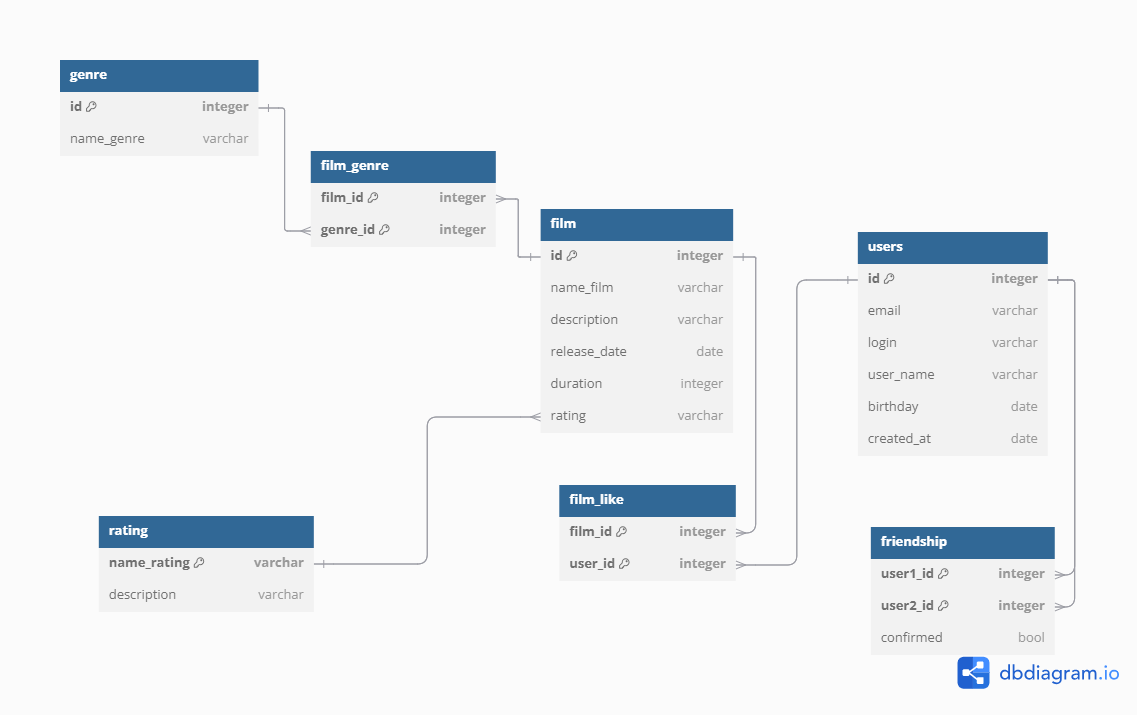
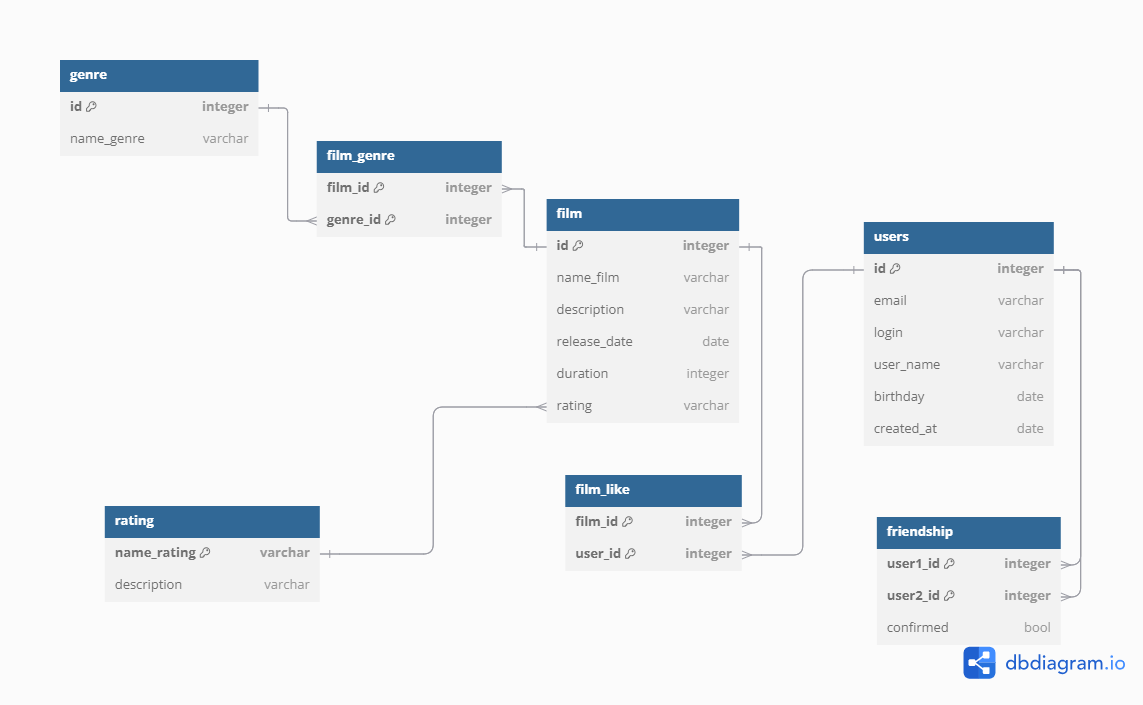
Перезалил ER диаграмму-2

diff --git a/README.md b/README.md
@@ -1,7 +1,7 @@
 # java-filmorate
 Template repository for Filmorate project.
 
-![cхема базы данных](./db-diagram/erwin.png)
+![cхема базы данных-3](./db-diagram/erwin.png)
 
 [Примеры запросов](./db-diagram/sqlexamples.sql)
 
